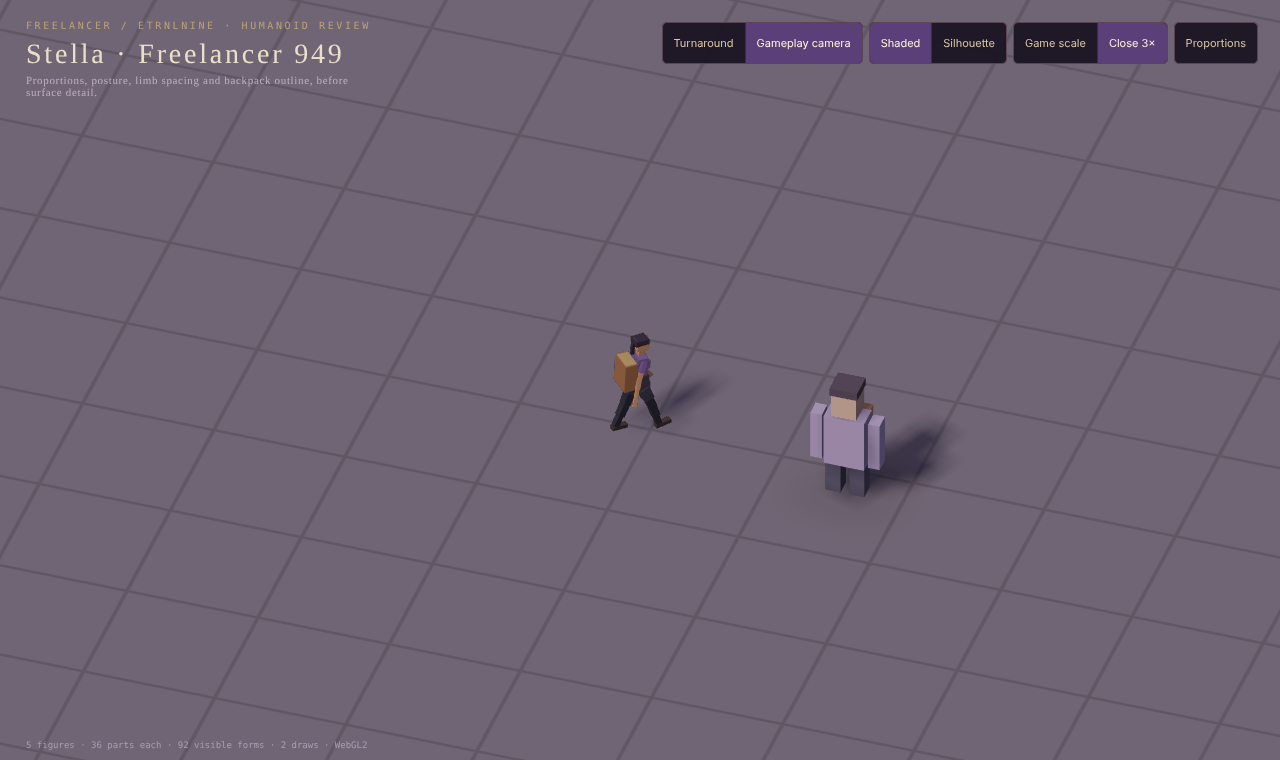
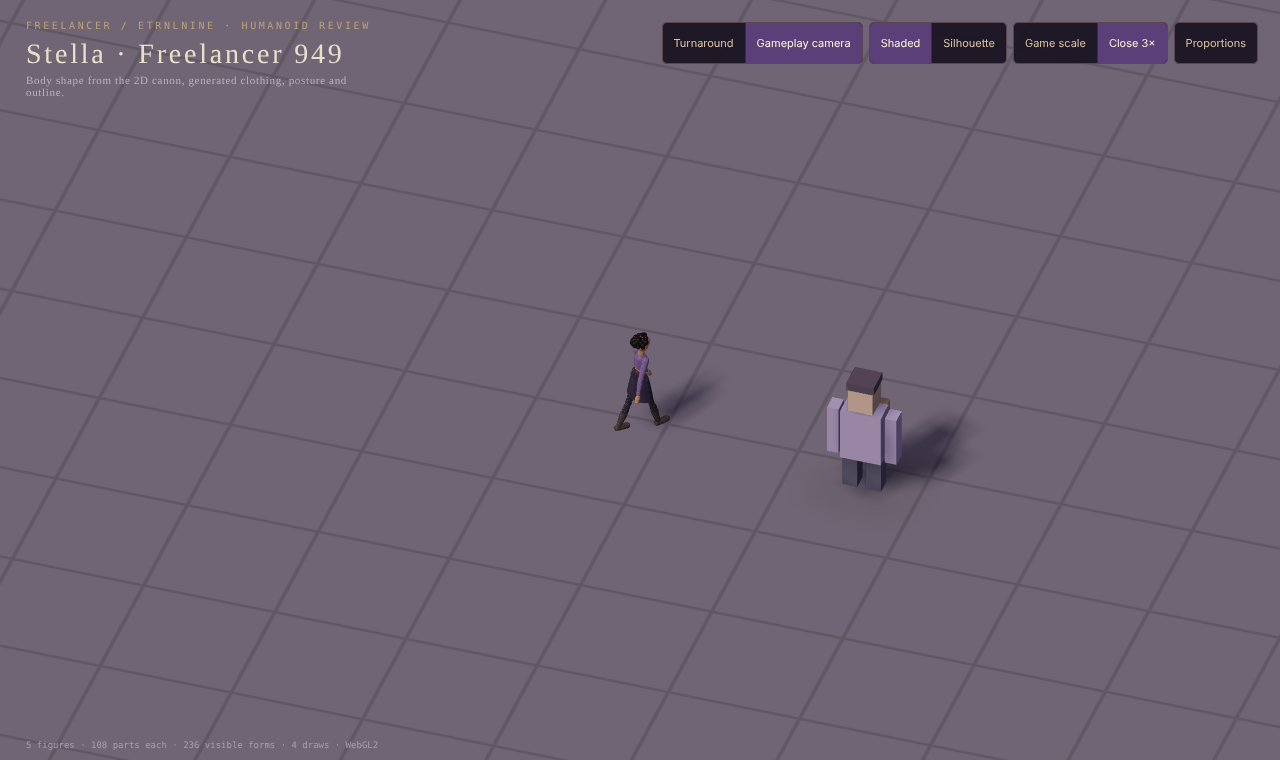
Record rounded-humanoid evidence and regression results
Claude-Session: https://claude.ai/code/session_01TGvTK3FFGmVVBWQz9Z6hqR

Changed region(s): [[0.625, 0.4842, 0.75, 0.6658], [0.4688, 0.4237, 0.5312, 0.575], [0.0312, 0.0908, 0.25, 0.1211]]

diff --git a/docs/milestones/humanoid/README.md b/docs/milestones/humanoid/README.md
@@ -1,20 +1,27 @@
-# Humanoid silhouette review · evidence
+# Humanoid review · evidence
 
-Recorded 2026-10-17. Contract: [decision 0020](../../decisions/0020-humanoid-silhouette-review.md). Open `dist/ETRNLNINE-Humanoid-Review.html` offline in a WebGL 2 browser.
+Recorded 2026-10-17. Contracts: [decision 0020](../../decisions/0020-humanoid-silhouette-review.md) (review stage) and [decision 0021](../../decisions/0021-rounded-bodies-and-garments.md) (rounded bodies and generated clothing). Open `dist/ETRNLNINE-Humanoid-Review.html` offline in a WebGL 2 browser.
 
 | Turnaround, shaded | Silhouette, walking | Gameplay camera, 3× close-up |
 | --- | --- | --- |
 | ![Turnaround](humanoid-turnaround.png) | ![Silhouette walk](humanoid-silhouette-walk.png) | ![Gameplay close-up](humanoid-gameplay-close.png) |
 
-Screenshots come from `npm run test:humanoid` on Chromium with SwiftShader at 1280×760. The proportions shown are the starting 949 preset, not an approved design.
+| Generated bodies and outfits | The same, walking under the game camera's elevation |
+| --- | --- |
+| ![Generated lineup](humanoid-generated-lineup.png) | ![Generated walk](humanoid-generated-walk.png) |
+
+The first row comes from `npm run test:humanoid` on Chromium with SwiftShader at 1280×760. The second row is a source fixture: eight bodies across the three canons and six builds, each in an outfit drawn by `generateOutfit` from the Freelancer wardrobe with a seeded random and the night palette (949 first, in her preset). The look and outfits shown are proposals, not approved designs.
 
 ## Results
 
-- `npm test`: 102/102 pass, including 4 humanoid tests.
-- `npm run test:humanoid`: passes. Silhouette pixel counts per view (front, three-quarter, side, back) at 640×360: preset 6828 / 8819 / 5067 / 6845; without backpack 6582 / 7668 / 3754 / 6599; at 1.95 m 8103 / 10391 / 5859 / 8111. Removing the pack loses the most pixels in profile and three-quarter, as expected.
-- Each figure is 36 boxes with the backpack and ponytail; the review scene holds 5 figures plus the diagnostic traveler in one batch, submitted in 2–3 draws including guides and shadows.
-- No Canvas2D, network requests or page errors. GPU buffers alternate between the same two values across shaded/silhouette and view switches (shadow maps released and reacquired). Disposal leaves only the renderer's unit cube.
+- `npm test`: 104/104 pass, including 6 humanoid tests.
+- `npm run test:humanoid`: passes, including an outfit-slot change, Generate outfit, a body-canon change and a context loss/restore that reproduces the same silhouette pixels.
+  - Silhouette pixel counts per view (front, three-quarter, side, back) at 640×360: preset (no pack) 7148 / 6366 / 4136 / 7146; with a pack 7325 / 7567 / 5431 / 7322; at 1.95 m 9599 / 8505 / 5546 / 9610.
+  - Adding the pack adds the most pixels in profile.
+- Regression suites: `test:browser`, `test:materials`, `test:surface`, `test:perspective`, `test:bloom`, `test:freelancer`, `test:studio`, `test:studio-tools`, `test:objects` and `test:camera` all pass. `test:studio` timed out once on its touch-walk step while other suites shared the machine, then passed when run alone.
+- 949 in her preset outfit is 108 rounded and box parts. The review scene (5 figures, the traveler and guides) submits 4 draws: one per primitive stream in the lit pass, plus guides and shadows.
+- No Canvas2D, network requests or page errors. GPU buffers stay bounded across view changes. Disposing the review leaves only the renderer's cube and rounded mesh; disposing the engine leaves nothing.
 
 ## Limits
 
-Software WebGL only; phone performance is unmeasured. Bodies are box segments without skinning, IK or ground contact. The Freelancer street still uses the diagnostic traveler.
+Software WebGL only, so phone performance is unmeasured. Bodies are rigid rounded segments without skinning, IK or ground contact on slopes. Skirts and hair are static: legs pass through long skirts while walking until cloth chains are ported. The Freelancer street still uses the diagnostic traveler.
